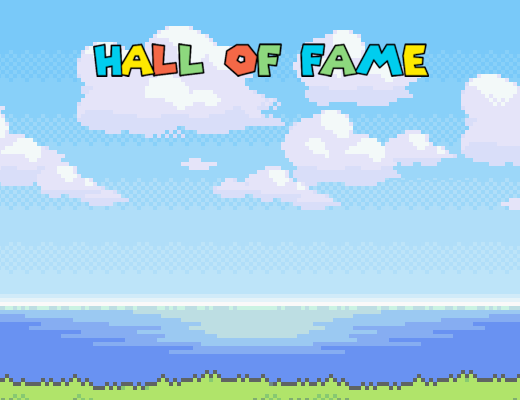
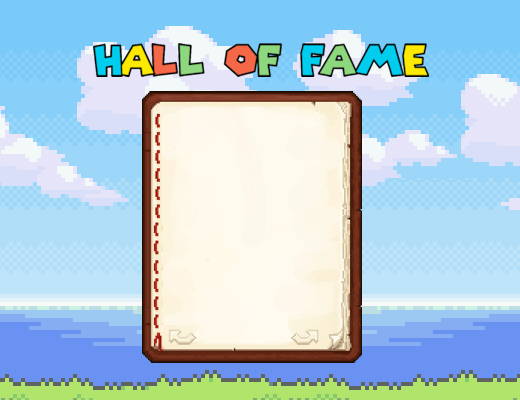
combined txtfiles

Changed region(s): [[0.2462, 0.21, 0.7077, 0.93]]

diff --git a/src/Main.java b/src/Main.java
@@ -9,7 +9,6 @@ import javax.sound.sampled.Clip;
 import javax.sound.sampled.AudioInputStream;
 import javax.sound.sampled.AudioSystem;
 import javax.swing.*;
-import javax.swing.JButton;
 
 public class Main extends JPanel implements Runnable, KeyListener, MouseListener {
 	
@@ -56,10 +55,11 @@ public class Main extends JPanel implements Runnable, KeyListener, MouseListener
 	public static boolean muteMenu = false;
 	public static boolean muteGame = false;
 	public static boolean muteSFX = false;
-	JTextField jt = new JTextField("Enter Name: ", 15);
-	public static String winner;
-	JButton button;
-	public ArrayList<String> winners = new ArrayList<String>();
+	public static String name;
+	
+	
+
+	
 
 	public Main() {
 		setPreferredSize(new Dimension(winWidth, winHeight));
@@ -67,6 +67,7 @@ public class Main extends JPanel implements Runnable, KeyListener, MouseListener
 		this.setFocusable(true);
 		addKeyListener(this);
 		addMouseListener(this);
+		
 		try {
 			// imports all images
 			Images.importImages();
@@ -109,7 +110,7 @@ public class Main extends JPanel implements Runnable, KeyListener, MouseListener
 			g.drawImage(Images.level, 0, 0, null);
 			g.drawImage(Images.back, 450, 340, null);
 		} else if (gameState == 2) {
-			currentLvl = "enemies.txt";
+			currentLvl = "completelvl1.txt";
 			try {
 				in = new Scanner(new File(currentLvl));
 				GameFunctions.load40Grid(in);
@@ -180,24 +181,10 @@ public class Main extends JPanel implements Runnable, KeyListener, MouseListener
 			g.drawImage(Images.currentDogImage, (int) dog.getX(), (int) dog.getY(), null);
 		} else if ( gameState == 4) {
 			g.drawImage(Images.win[4], 0, 0, null);
-					
 			
 		} else if ( gameState == 5) {
 			Animations.fade();
 			g.drawImage(Images.win[Animations.fadeIndex], 0, 0, null);
-				jt.setBounds(155, 200, 200, 40);
-				this.add(jt);
-				jt.setPreferredSize(new Dimension (250, 35));
-				button = new JButton("enter");
-				button.addActionListener(new ActionListener() {
-					public void actionPerformed(ActionEvent e) {
-						winner = jt.getText().substring(12);
-						System.out.println(winner);
-						winners.add(winner);
-						jt.setEnabled(false);
-					}
-				});
-				this.add(button);
 			
 			
 		} else if (gameState == 6) {
@@ -234,7 +221,6 @@ public class Main extends JPanel implements Runnable, KeyListener, MouseListener
 			super.paintComponent(g);
 			g.drawImage(Images.winners, 0, 0, null);
 			g.drawImage(Images.back, 450, 340, null);
-			g.drawString(winner, 200, 200);
 
 		} else if (gameState == 8) {
 			gameBGM.stop();
@@ -303,9 +289,12 @@ public class Main extends JPanel implements Runnable, KeyListener, MouseListener
 			}
 		}
 		
-		if (gameState == 0 && e.getKeyCode() == 10) {
-			winner = jt.getText();
-			System.out.println(winner);
+		if (gameState == 4 && e.getKeyCode()==10) {
+			name = jt.getText().substring(12);
+			winners.add(name);
+			jt.setEnabled(false);
+			System.out.println(name);
+			gameState = 7;
 		}
 	}
 
@@ -359,6 +348,13 @@ public class Main extends JPanel implements Runnable, KeyListener, MouseListener
 			if (mouseX >= 450 && mouseX <= 500 && mouseY >= 340 && mouseY <= 387) {
 				gameState = 0;
 			}
+			if (mouseX >= 290 && mouseX <= 315 && mouseY >= 330 && mouseY <= 340) {
+				//next page of hall of fame
+			}
+			if (mouseX >= 170 && mouseX <= 195 && mouseY >= 330 && mouseY <= 340) {
+				// previous page of hall of fame
+			}
+			
 		} else if (gameState == 8) {
 			GameFunctions.restartGame();
 			if (mouseX >= 170 && mouseX <= 220 && mouseY >= 240 && mouseY <= 287) {
